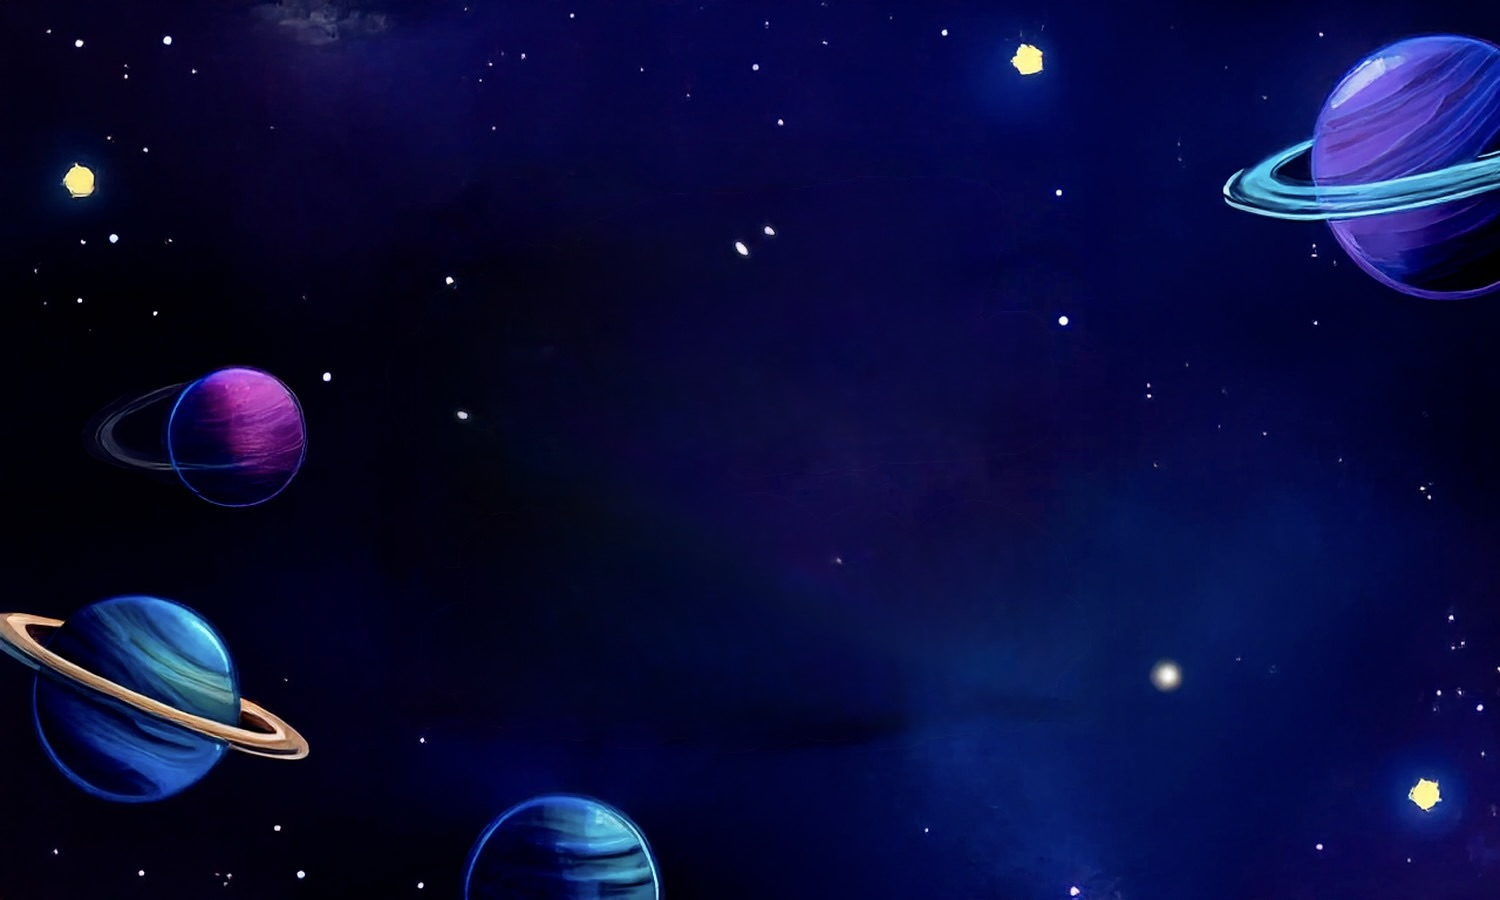
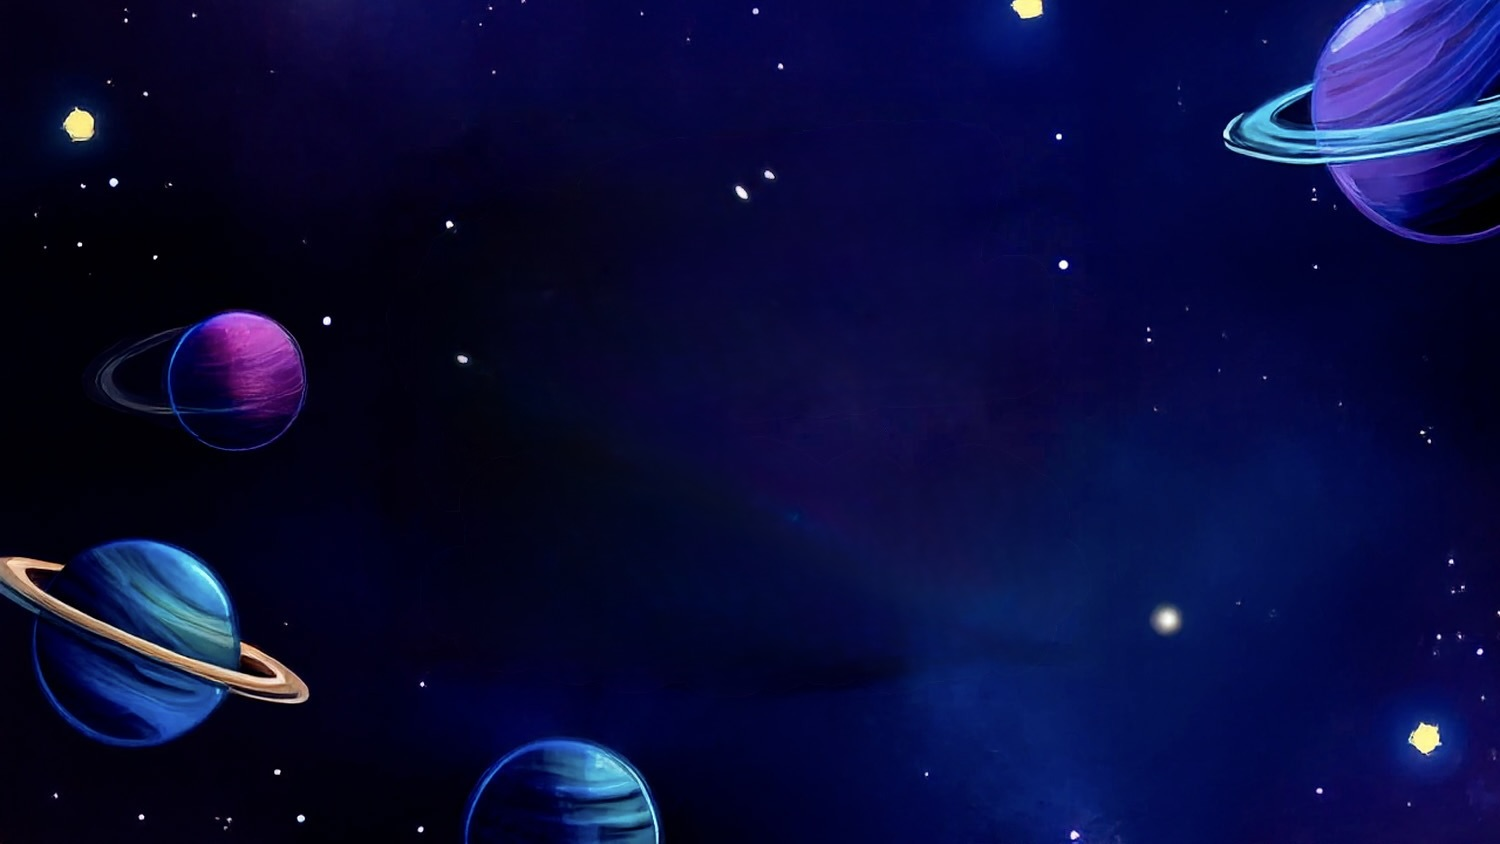
updates

diff --git a/GalaxyTrucker/src/main/java/it/polimi/ingsw/view/graphic/GUIApplication.java b/GalaxyTrucker/src/main/java/it/polimi/ingsw/view/graphic/GUIApplication.java
@@ -10,8 +10,10 @@ import it.polimi.ingsw.net.socket.client.ClientEventSender;
 import it.polimi.ingsw.net.socket.client.NetworkClient;
 import it.polimi.ingsw.view.ViewFlow;
 import it.polimi.ingsw.view.graphic.scenes.BuildingScene;
+import it.polimi.ingsw.view.graphic.scenes.LoginScene;
 import javafx.application.Application;
 import javafx.scene.Scene;
+import javafx.scene.input.KeyCombination;
 import javafx.stage.Stage;
 
 import java.util.ArrayList;
@@ -90,11 +92,20 @@ public class GUIApplication extends Application {
         //gui.colorAlreadyTaken(new ColorAlreadyInError(PlayerColors.RED, EnumSet.of(PlayerColors.GREEN, PlayerColors.BLUE, PlayerColors.YELLOW)));ù
 
 
-        BuildingScene buildingScene = new BuildingScene(trucker.getNickname(),trucker.getSpaceShip().getComponents(), viewFlow); // assicurati che esista questa classe
-        Scene scene = buildingScene.createScene();
+//        BuildingScene buildingScene = new BuildingScene(trucker.getNickname(),trucker.getSpaceShip().getComponents(), viewFlow); // assicurati che esista questa classe
+//        Scene scene = buildingScene.createScene();
+//
+//        primaryStage.setScene(scene);
+//        primaryStage.setResizable(true);
+//        primaryStage.setFullScreen(true);
+//        primaryStage.setTitle("Test Building Scene");
+//        primaryStage.show();
 
-        primaryStage.setScene(scene);
-        primaryStage.setTitle("Test Building Scene");
+        LoginScene loginScene = new LoginScene(EnumSet.allOf(PlayerColors.class), viewFlow);
+
+        primaryStage.setScene(loginScene.createScene());
+        primaryStage.setResizable(true);        // ← abilita ridimensionamento
+        primaryStage.setFullScreen(true); // ← facoltativo, se in fullscreen
         primaryStage.show();
     }
 

diff --git a/GalaxyTrucker/src/main/java/it/polimi/ingsw/view/graphic/scenes/LoginScene.java b/GalaxyTrucker/src/main/java/it/polimi/ingsw/view/graphic/scenes/LoginScene.java
@@ -45,13 +45,13 @@ public class LoginScene {
     }
 
     public Scene createScene() {
-        double width = 850;
-        double height = 550;
+        double width = 1600;
+        double height = 900;
 
         ImageView backgroundView = new ImageView(new Image(getClass().getResource("/it/polimi/ingsw/view/EmptyWallpaper.jpeg").toExternalForm()));
         backgroundView.setFitWidth(width);
         backgroundView.setFitHeight(height);
-        backgroundView.setPreserveRatio(false);
+        backgroundView.setPreserveRatio(true);
         backgroundView.setMouseTransparent(true);
 
         Label nicknameLabel = new Label("Insert your nickname and choose a color");
